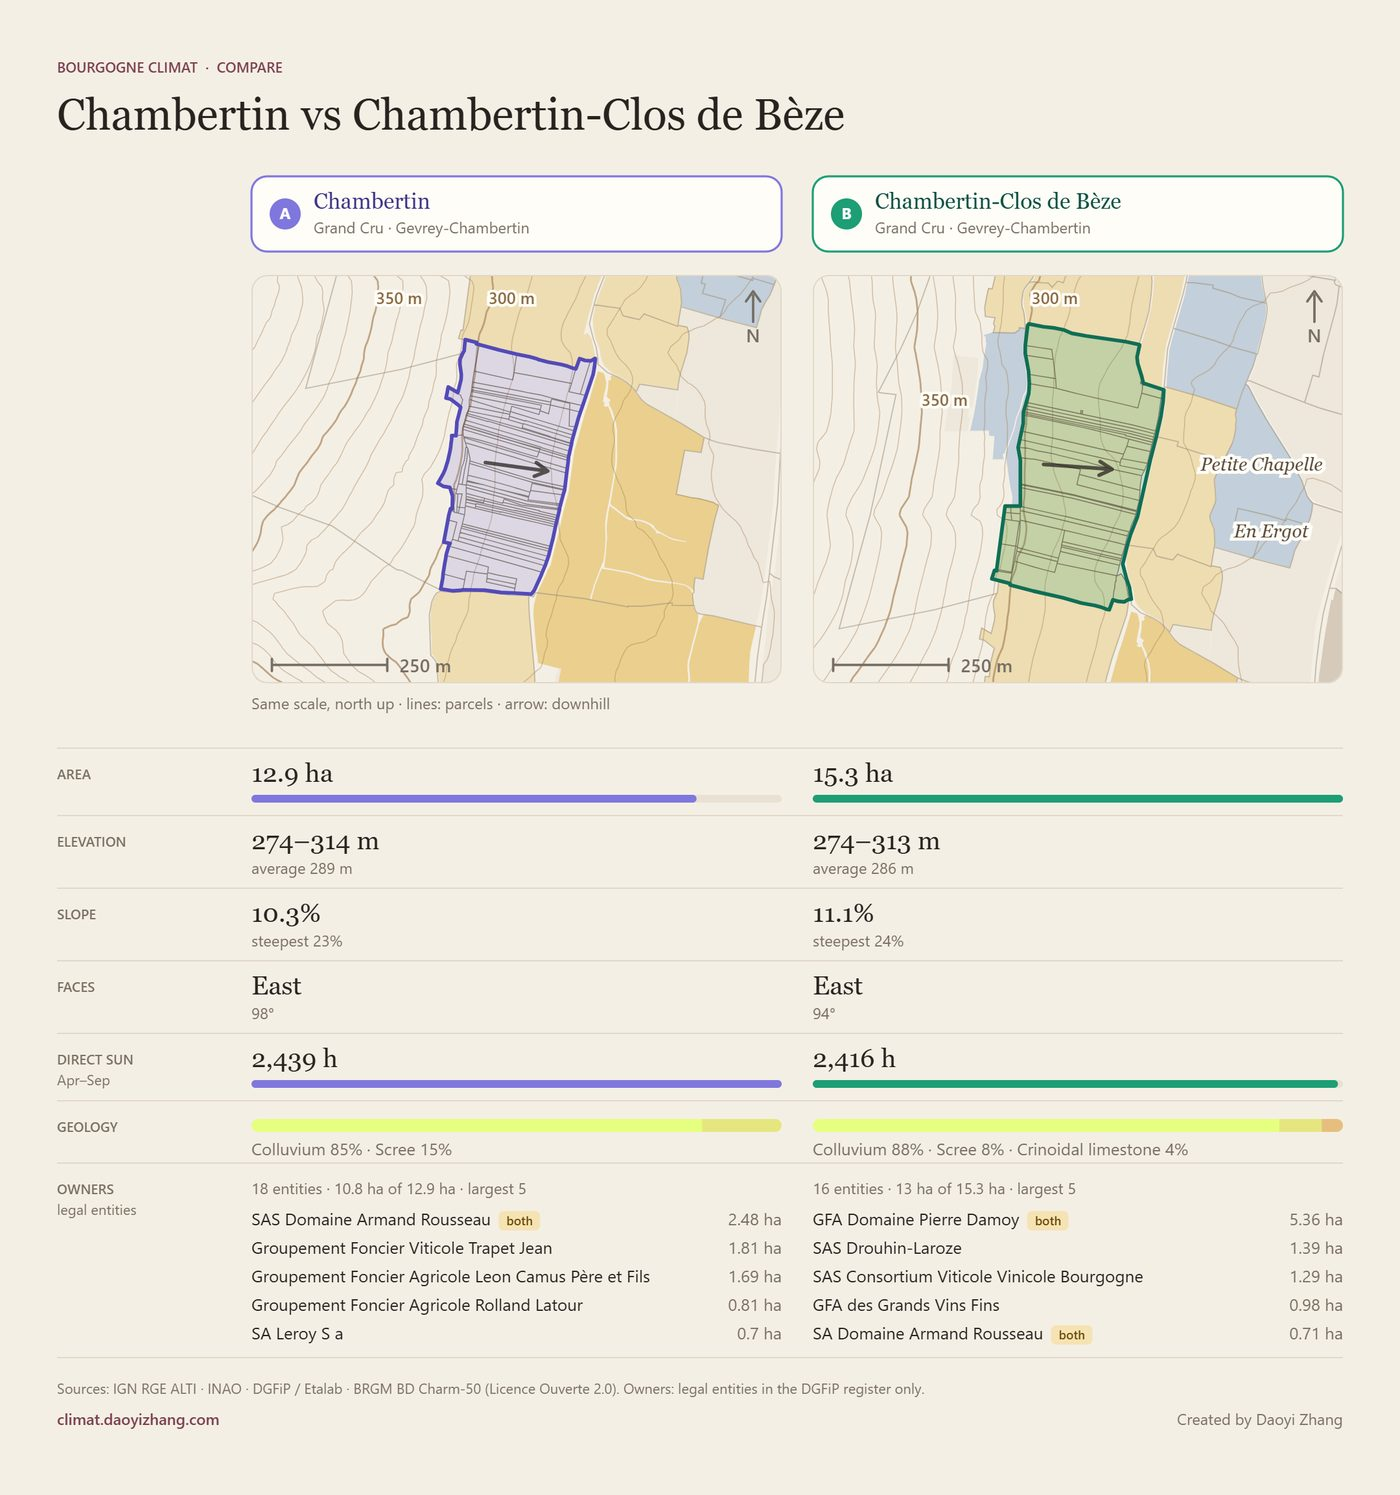
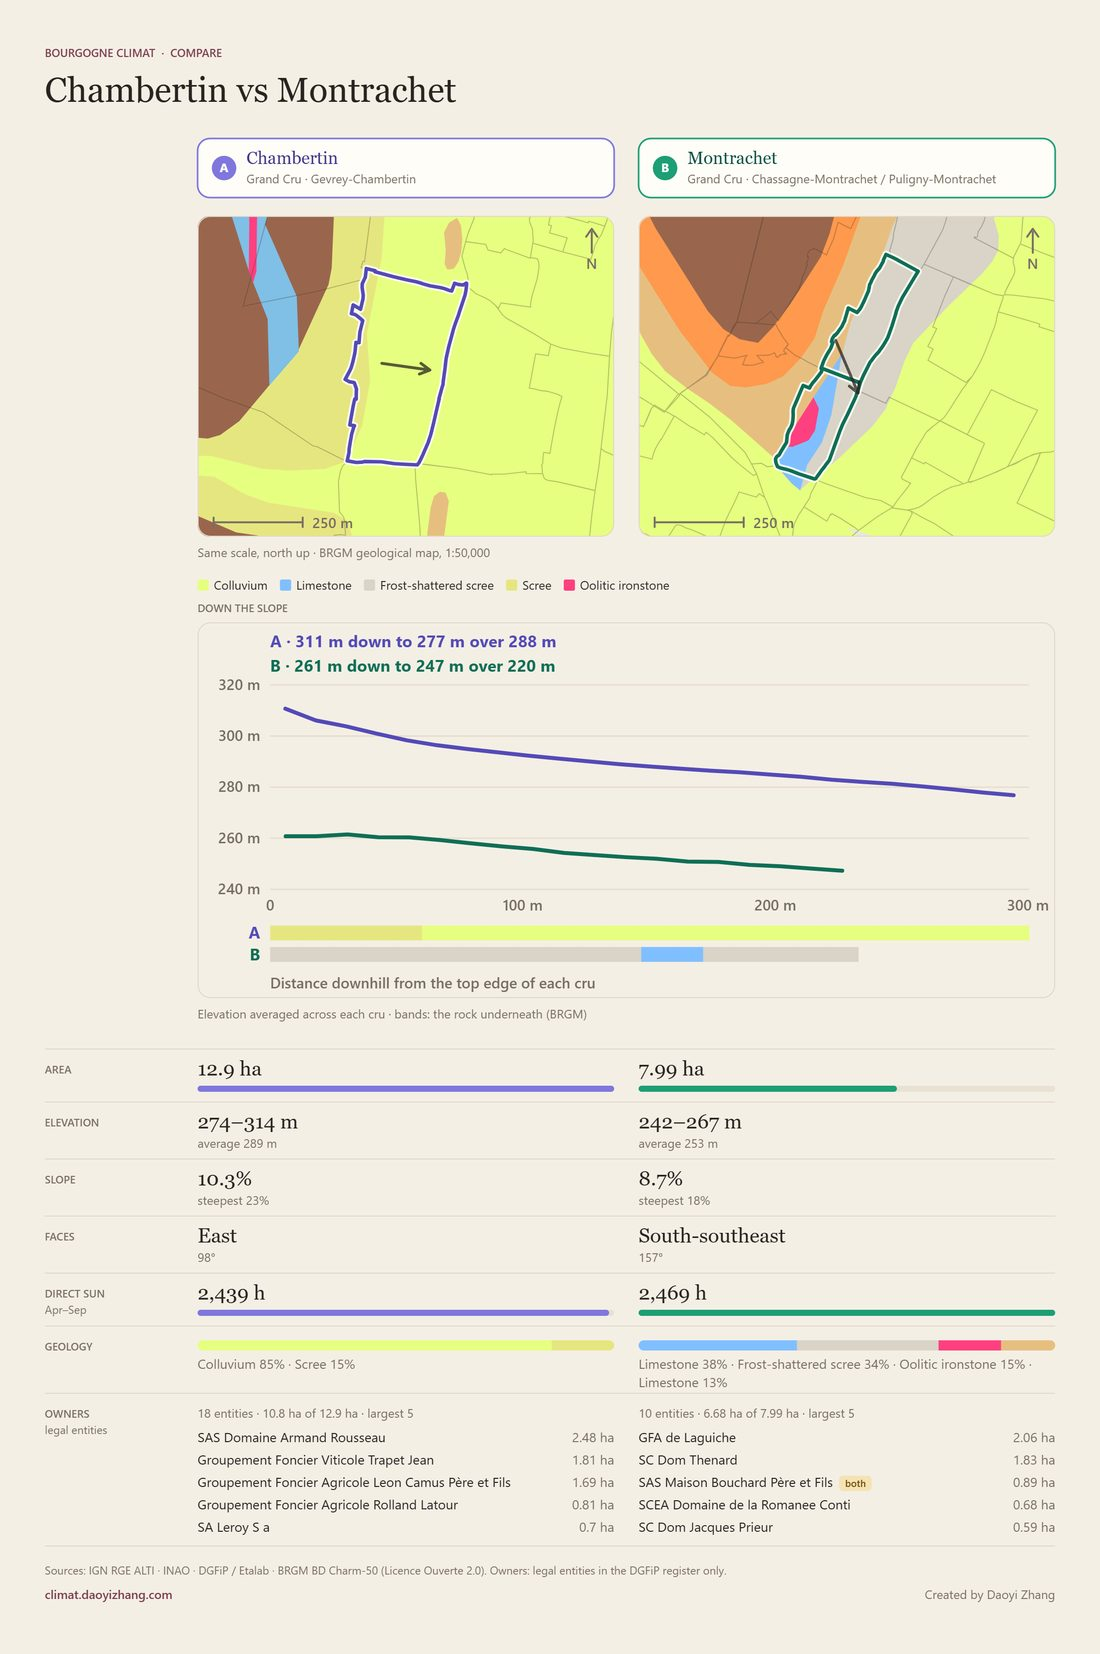
Share links keep the compare map style; README photos for compare views and the tour

diff --git a/dist/app.js b/dist/app.js
@@ -783,7 +783,7 @@ async function setCompareSide(slot,feature,layer,provenance,villageHint){if(!com
 async function loadSideOwners(side){const o=await compareOwners(side).catch(()=>null);side.owners=o;if(compare?.b&&!compare.b.loading&&!compare.a.loading&&!compare.repick&&(compare.a===side||compare.b===side))renderCompare();/* owners show only once B is chosen; no redraw while B is being typed */}
 async function sideFromRef(ref){const m=/^(climats|parcels):(.+)@(.+)$/.exec(ref||'');if(!m)return null;const [,layer,id,villageId]=m,v=index.villages.find(x=>x.id===villageId);if(!v)return null;const scene=await loadScene(v);const feature=(layer==='climats'?scene.climats:scene.parcels||[]).find(f=>String(fprops(f).id)===String(id));return feature?{feature,layer,villageId}:null;}
 async function setCompareFromCru(cru){const r=await sideFromRef(`${cru.layer||'parcels'}:${cru.id}@${cru.village}`);window.atlasSearchDrop?.close();if(r)setCompareB(r.feature,r.layer,{factsVillageId:r.villageId},r.villageId);}
-async function restoreCompare(cmp){const [ra,rb]=String(cmp).split(',');const A=await sideFromRef(ra),B=await sideFromRef(rb);if(!A||!B)return;const a=await compareSide(A.feature,A.layer,{factsVillageId:A.villageId},A.villageId),b=await compareSide(B.feature,B.layer,{factsVillageId:B.villageId},B.villageId);compare={a,b,picking:false,flying:false,expanded:{},viewing:selected?.id===b.villageId&&selected?.id!==a.villageId?'b':'a'};closeSunAndRain();renderCompare();openInfoPanel(A.feature);loadSideOwners(a);loadSideOwners(b);}
+async function restoreCompare(cmp,view){const [ra,rb]=String(cmp).split(',');const A=await sideFromRef(ra),B=await sideFromRef(rb);if(!A||!B)return;const a=await compareSide(A.feature,A.layer,{factsVillageId:A.villageId},A.villageId),b=await compareSide(B.feature,B.layer,{factsVillageId:B.villageId},B.villageId);compare={a,b,picking:false,flying:false,expanded:{},mapView:CMP_VIEWS.some(([k])=>k===view)?view:'parcels',viewing:selected?.id===b.villageId&&selected?.id!==a.villageId?'b':'a'};closeSunAndRain();renderCompare();openInfoPanel(A.feature);loadSideOwners(a);loadSideOwners(b);}
 function endCompare(rerender=true){if(!compare)return;const a=(compare.viewing==='b'&&compare.b?.feature?compare.b:compare.a);/* Done keeps the cru the map is showing */compare=null;renderer?.setCompareOutlines?.([]);$('.detail-panel')?.classList.remove('is-compare');$('#feature-card')?.classList.remove('is-compare');scheduleShareSync();if(rerender&&a?.feature){const item=renderer?.featureIndex?.find(it=>it.key===a.layer&&String(fprops(it.feature).id)===String(a.id));if(item)renderer.selectFeature(item.feature,a.layer);else showFeatureFacts(a.feature,a.layer,{factsVillageId:a.villageId});}}
 function compareIntercept(feature,layer,provenance){
   if(!feature){renderCompare();return true;}
@@ -1011,7 +1011,7 @@ const CMP_VIEWS=[['parcels','Parcels'],['geology','Geology'],['overlay','Overlay
 const CMP_NOTES={parcels:'Same scale, north up · lines: parcels · arrow: downhill',geology:'Same scale, north up · BRGM geological map, 1:50,000',overlay:'Same scale, centred on each other, turned so downhill points down'};
 function compareFiguresHtml(){const f=compare.shapes,view=f.figs[compare.mapView]?compare.mapView:'parcels';
   return `<div class="cmp-figures"><div class="cmp-view-tabs" role="tablist" aria-label="Map style">${CMP_VIEWS.filter(([k])=>f.figs[k]).map(([k,l])=>`<button type="button" role="tab" data-view="${k}" aria-selected="${k===view}">${l}</button>`).join('')}</div><div class="cmp-shapes${view==='overlay'?' is-overlay':''}">${f.figs[view]}<p class="cmp-shapes-note">${CMP_NOTES[view]}</p>${view==='geology'?f.legend:''}</div>${f.profile}</div>`;}
-function bindCompareFigures(root){root?.querySelectorAll('.cmp-view-tabs [data-view]').forEach(b=>b.addEventListener('click',()=>{if(!compare)return;compare.mapView=b.dataset.view;const host=$('#feature-card .cmp-figures');if(host){host.outerHTML=compareFiguresHtml();bindCompareFigures($('#feature-card'));}}));}
+function bindCompareFigures(root){root?.querySelectorAll('.cmp-view-tabs [data-view]').forEach(b=>b.addEventListener('click',()=>{if(!compare)return;compare.mapView=b.dataset.view;scheduleShareSync();const host=$('#feature-card .cmp-figures');if(host){host.outerHTML=compareFiguresHtml();bindCompareFigures($('#feature-card'));}}));}
 // Each cru on a small north-up map at one shared scale: surrounding AOC areas tinted by class with a few names, the
 // lieux-dits, contours from the terrain (5 m tiles around grand and premier crus, the village terrain elsewhere), the
 // cadastral parcels inside the cru, a scale bar and the downhill arrow. Flat on purpose: a 3D angle foreshortens shape
@@ -1136,7 +1136,7 @@ let shareRestoring=false,shareTimer=0;
 function shareState(){const p=new URLSearchParams(),sf=selectedFeature;
   if(sf?.feature&&['climats','parcels','cadastre'].includes(sf.layer)){const f=sf.feature.properties||sf.feature,id=f.id??f.featureId;if(id!=null)p.set('sel',`${sf.layer}:${id}`);}
   if(ownerShown)p.set('owner',ownerShown.siren||ownerShown.name);
-  if(compare?.a?.id!=null&&compare?.b?.id!=null&&!compare.a.loading&&!compare.b.loading){p.delete('sel');p.set('cmp',[compare.a,compare.b].map(x=>`${x.layer}:${x.id}@${x.villageId}`).join(','));}
+  if(compare?.a?.id!=null&&compare?.b?.id!=null&&!compare.a.loading&&!compare.b.loading){p.delete('sel');p.set('cmp',[compare.a,compare.b].map(x=>`${x.layer}:${x.id}@${x.villageId}`).join(','));if(compare.mapView&&compare.mapView!=='parcels')p.set('cmpv',compare.mapView);else p.delete('cmpv');}else p.delete('cmpv');
   if(terroirMode&&terroirMode!=='off')p.set('shade',terroirMode);
   const v=renderer?.captureView?.();if(v&&Number.isFinite(v.easting)&&Number.isFinite(v.radiusMetres)){const [dx,dy,dz]=v.direction||[.7,.62,.7],deg=180/Math.PI;p.set('cam',[Math.round(v.easting),Math.round(v.northing),Math.round(v.radiusMetres),Math.round((Math.atan2(dx,dz)*deg+360)%360),Math.round(Math.acos(Math.max(-1,Math.min(1,dy)))*deg)].join(','));}
   return p;}
@@ -1152,7 +1152,7 @@ async function applyShare(params){if(!params||![...params.keys()].length){shareR
     const sel=params.get('sel'),cut=sel?sel.indexOf(':'):-1;
     if(cut>0){const layer=sel.slice(0,cut),id=sel.slice(cut+1),item=await waitForFeature(layer,id);
       if(item){if(!hasCam)renderer.focusFeature(item.feature);let prov={};if(layer==='cadastre'){const ring=item.ring||[],c=[ring.reduce((a,q)=>a+q[0],0)/(ring.length||1),ring.reduce((a,q)=>a+q[1],0)/(ring.length||1)];prov={placeName:renderer.placeAt?.(c),placeFeature:renderer.placeFeatureAt?.(c),parcelRing:ring,parcelHoles:item.holes||[],placeScope:'selected-map-point',aocUnder:renderer.aocUnder?.(item.feature)};}renderer.selectFeature(item.feature,layer,prov);}}
-    const cmp=params.get('cmp');if(cmp)await restoreCompare(cmp);
+    const cmp=params.get('cmp');if(cmp)await restoreCompare(cmp,params.get('cmpv'));
     const owner=params.get('owner');
     if(owner){const list=await loadOwners(),o=(list||[]).find(x=>x.siren===owner)||(list||[]).find(x=>x.name===owner);
       if(o){const input=ownerSearchInput();if(document.documentElement.classList.contains('phone-ui'))window.atlasPhoneUI?.setMode?.('owner');if(input)input.value=o.name;showOwner(o);window.atlasSearchDrop?.open(input);}}

diff --git a/README.zh-CN.md b/README.zh-CN.md
@@ -19,7 +19,9 @@ lieu-dit（地块名），并查看任意地块的风土：坡度、朝向、日
 - **查看地块风土。** 点击任一 lieu-dit 或产区范围，可看到面积、海拔范围、坡度、朝向、模拟的直射日照时长和地质。
 - **按风土着色。** 可按坡度、朝向、日照时长或地质为葡萄园着色，替代按产区等级着色。
 - **对比两个葡萄园。** 任选两个葡萄园并排对比，即使相隔整条金丘：同一比例尺的等高线与地块小地图，
-  以及面积、海拔、坡度、朝向、日照时长、地质和主要业主。可在 3D 地图上以最佳视角同时显示两者，并将对比保存为图片。
+  也可切换为地质图或将两者叠放比较；坡面剖面图显示从上到下的海拔与下方岩层；以及面积、海拔、坡度、朝向、日照时长、
+  地质和主要业主。可在 3D 地图上以最佳视角同时显示两者，并将对比保存为图片。
+- **使用引导。** 网页与手机上都有简短的“使用说明”引导，逐一指出各个控件，并以插图讲解地质着色与葡萄园对比。
 - **分享你看到的画面。** 网址会记录视角、选中的地块、图层和对比内容，复制链接发给别人即可打开同样的地图。
 - **日照与降雨。** 选择任意日期和时间，观察太阳与山影在山坡上的移动，以及一场降雨如何沿坡面流走。
 - **搜索地点与业主。** 搜索村庄和葡萄园，或搜索 DGFiP 公开文件中登记为业主的法人（酒庄、GFA、SCI 等），
@@ -38,13 +40,24 @@ lieu-dit（地块名），并查看任意地块的风土：坡度、朝向、日
 
 ### 对比两个葡萄园
 
-Chambertin 与 Chambertin-Clos de Bèze 并排对比：两者同时在 3D 地图上勾勒出来，并附同比例尺小地图和各项数据。
+Chambertin 与 Montrachet，分处金丘南北两端。小地图可在 **地块（Parcels）**、**地质（Geology）** 与 **叠放（Overlay）**
+之间切换；**坡面剖面（Down the slope）** 从上到下画出两个葡萄园的海拔，并标出下方的岩层。
 
-![Chambertin 与 Chambertin-Clos de Bèze 的对比，两者同时勾勒在 3D 地图上](docs/images/compare.jpg)
+![Chambertin 与 Montrachet 的对比：地质小地图与坡面剖面](docs/images/compare.jpg)
 
-| 保存的对比图片 | 手机上 |
+| 叠放与坡面剖面 | 保存的对比图片 |
 |---|---|
-| ![保存为图片的对比](docs/images/compare-export.jpg) | ![在手机上对比两个葡萄园：地图与对比面板](docs/images/phone-compare.jpg) |
+| ![两个葡萄园叠放在一起，各自转向使下坡朝下，下方为坡面剖面](docs/images/compare-overlay.jpg) | ![保存为一张图片的对比](docs/images/compare-export.jpg) |
+
+![在手机上对比两个葡萄园：地图与对比面板](docs/images/phone-compare.jpg)
+
+### 使用说明
+
+首次访问时（以及随时点击 **How to use**）会出现引导，逐一指出每个控件。
+
+| 网页 | 手机 |
+|---|---|
+| ![引导讲解按地质着色](docs/images/tour-desktop.jpg) | ![引导讲解如何阅读对比](docs/images/tour-phone.jpg) |
 
 ## 数据来源
 

diff --git a/README.md b/README.md
@@ -21,8 +21,11 @@ sun it gets and the rock beneath it.
   modelled hours of direct sun and the geology under it.
 - **Shade the map by terroir.** Colour the vineyards by slope, aspect, sun hours or geology instead of appellation.
 - **Compare two crus.** Put any two crus side by side, even at opposite ends of the Côte: matching same-scale maps
-  with contours and parcels, then area, elevation, slope, aspect, sun hours, geology and the largest owners. Show both
-  on the 3D map from the best viewing angle, and save the comparison as an image.
+  with contours and parcels, the same maps on the geological map, or one laid over the other; a slope profile from top
+  to bottom with the rock underneath; then area, elevation, slope, aspect, sun hours, geology and the largest owners.
+  Show both on the 3D map from the best viewing angle, and save the comparison as an image.
+- **Guided tour.** A short "How to use" tour on the web and on phones points at each control, with illustrated steps
+  for geology shading and comparing.
 - **Share exactly what you see.** The address keeps the view, the selected plot, the layers and the comparison, so a
   copied link opens the same map for someone else.
 - **Sun & rain.** Watch the sun and shadows move over the hills for any date and time, and see how a storm's rain
@@ -43,14 +46,24 @@ sun it gets and the rock beneath it.
 
 ### Compare two crus
 
-Chambertin and Chambertin-Clos de Bèze side by side: both outlined on the 3D map, with same-scale maps and the
-figures for each.
+Chambertin and Montrachet, at opposite ends of the Côte d'Or. The small maps switch between **Parcels**, **Geology**
+and **Overlay**, and **Down the slope** draws both crus from top to bottom with the rock underneath.
 
-![Chambertin and Chambertin-Clos de Bèze compared, both outlined on the 3D map](docs/images/compare.jpg)
+![Chambertin and Montrachet compared: the geology maps and the slope profile](docs/images/compare.jpg)
 
-| Saved comparison image | On a phone |
+| Overlay and slope profile | Saved comparison image |
 |---|---|
-| ![The comparison saved as an image](docs/images/compare-export.jpg) | ![Comparing two crus on a phone: the map, and the comparison sheet](docs/images/phone-compare.jpg) |
+| ![The two crus laid over each other, each turned so downhill points down, above the slope profile](docs/images/compare-overlay.jpg) | ![The comparison saved as one image](docs/images/compare-export.jpg) |
+
+![Comparing two crus on a phone: the map, and the comparison sheet](docs/images/phone-compare.jpg)
+
+### How to use
+
+A guided tour on the first visit (and from **How to use** at any time) points at each control in turn.
+
+| Web | Phone |
+|---|---|
+| ![The tour explaining Shade by geology](docs/images/tour-desktop.jpg) | ![The tour explaining how to read a comparison](docs/images/tour-phone.jpg) |
 
 ## Data sources
 
